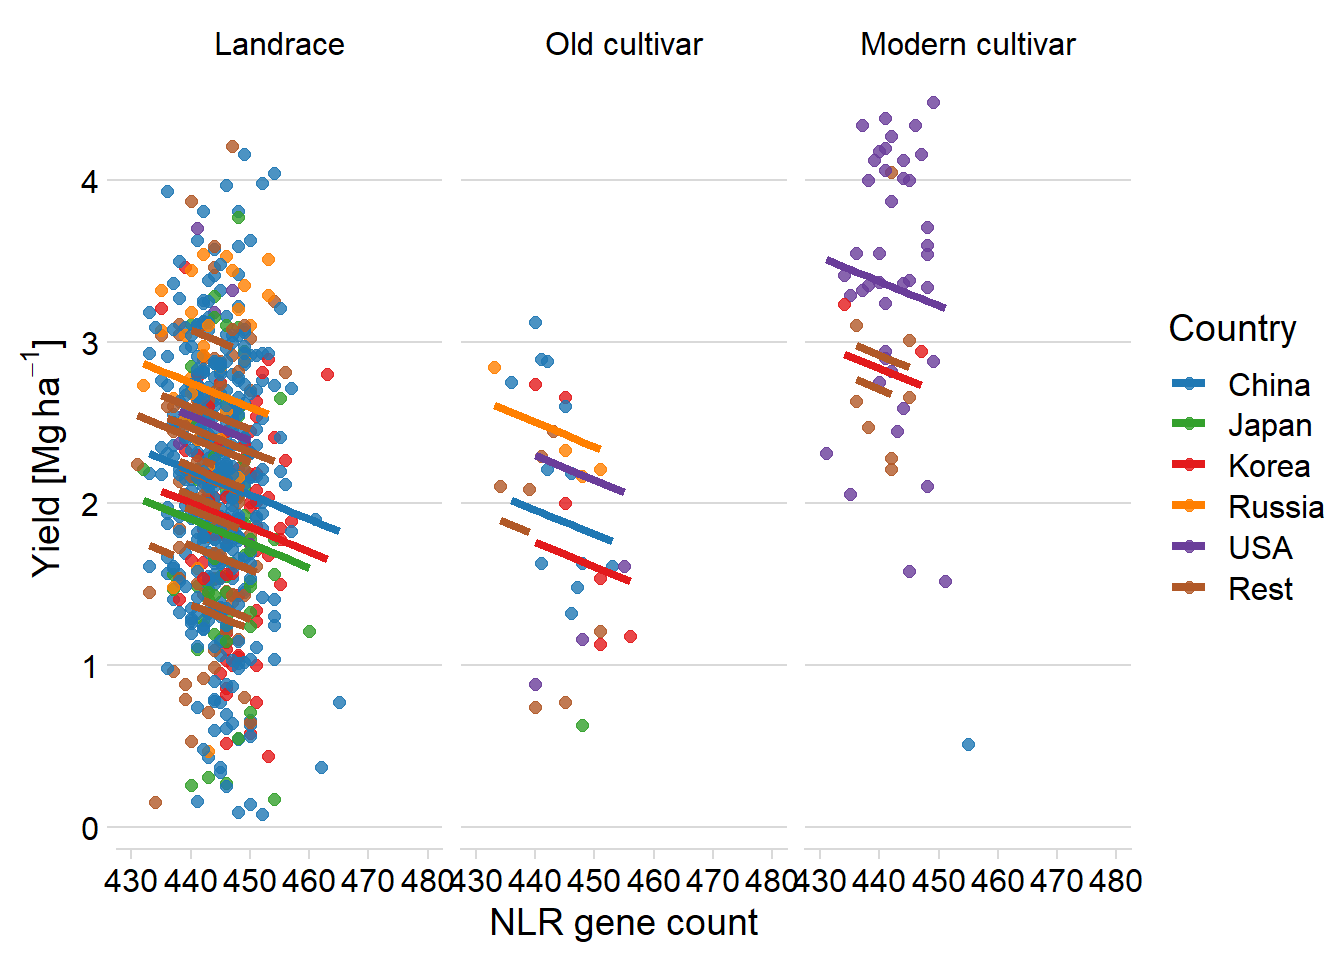
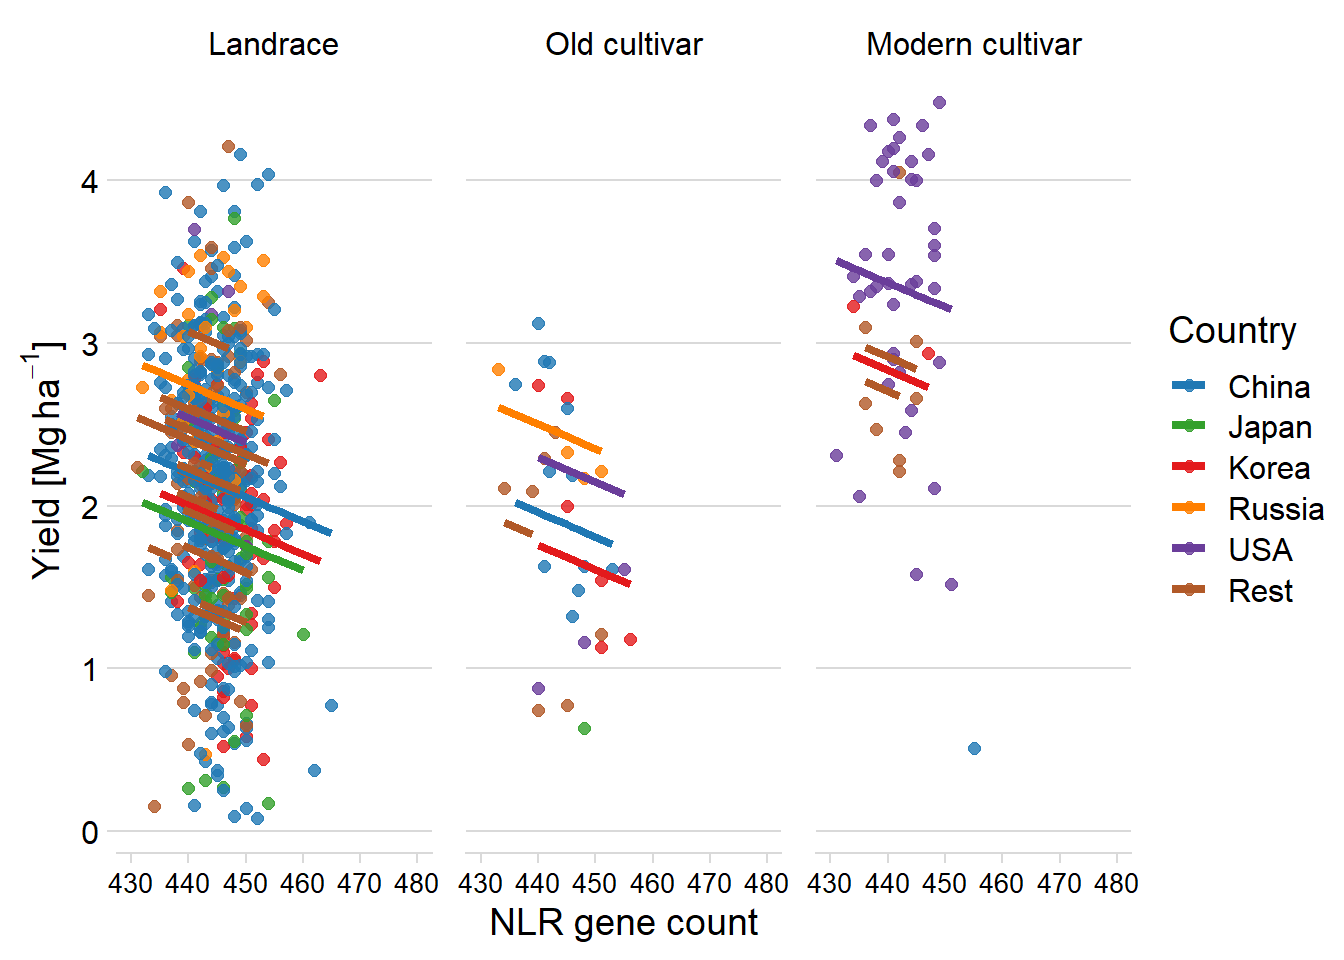
Build site.

diff --git a/docs/yield_link.html b/docs/yield_link.html
@@ -504,16 +504,16 @@ This reproducible <a href="http://rmarkdown.rstudio.com">R Markdown</a> analysis
 <div class="panel panel-default">
 <div class="panel-heading">
 <p class="panel-title">
-<a data-toggle="collapse" data-parent="#workflowr-checks" href="#strongRepositoryversionstrongahrefhttpsgithubcomphilippbayerRgeneanalysistreeb1c18390dd974d9d45edade5115d392cdf9a84dbtargetblankb1c1839a"> <span class="glyphicon glyphicon-ok text-success" aria-hidden="true"></span> <strong>Repository version:</strong> <a href="https://github.com/philippbayer/R_gene_analysis/tree/b1c18390dd974d9d45edade5115d392cdf9a84db" target="_blank">b1c1839</a> </a>
+<a data-toggle="collapse" data-parent="#workflowr-checks" href="#strongRepositoryversionstrongahrefhttpsgithubcomphilippbayerRgeneanalysistreee8e89b11f45804f3838927150a0f85c28cdf1f77targetblanke8e89b1a"> <span class="glyphicon glyphicon-ok text-success" aria-hidden="true"></span> <strong>Repository version:</strong> <a href="https://github.com/philippbayer/R_gene_analysis/tree/e8e89b11f45804f3838927150a0f85c28cdf1f77" target="_blank">e8e89b1</a> </a>
 </p>
 </div>
[2 lines of base64/hex data omitted]
 <div class="panel-body">
 <p>
 Great! You are using Git for version control. Tracking code development and connecting the code version to the results is critical for reproducibility.
 </p>
 <p>
-The results in this page were generated with repository version <a href="https://github.com/philippbayer/R_gene_analysis/tree/b1c18390dd974d9d45edade5115d392cdf9a84db" target="_blank">b1c1839</a>. See the <em>Past versions</em> tab to see a history of the changes made to the R Markdown and HTML files.
+The results in this page were generated with repository version <a href="https://github.com/philippbayer/R_gene_analysis/tree/e8e89b11f45804f3838927150a0f85c28cdf1f77" target="_blank">e8e89b1</a>. See the <em>Past versions</em> tab to see a history of the changes made to the R Markdown and HTML files.
 </p>
 <p>
 Note that you need to be careful to ensure that all relevant files for the analysis have been committed to Git prior to generating the results (you can use <code>wflow_publish</code> or <code>wflow_git_commit</code>). workflowr only checks the R Markdown file, but you know if there are other scripts or data files that it depends on. Below is the status of the Git repository when the results were generated:
@@ -601,6 +601,40 @@ Message
 </tr>
 </thead>
 <tbody>
+<tr>
+<td>
+Rmd
+</td>
+<td>
+<a href="https://github.com/philippbayer/R_gene_analysis/blob/e8e89b11f45804f3838927150a0f85c28cdf1f77/analysis/yield_link.Rmd" target="_blank">e8e89b1</a>
+</td>
+<td>
+Philipp Bayer
+</td>
+<td>
+2020-12-16
+</td>
+<td>
+wflow_publish(“analysis/yield_link.Rmd”)
+</td>
+</tr>
+<tr>
+<td>
+html
+</td>
+<td>
+<a href="https://rawcdn.githack.com/philippbayer/R_gene_analysis/0ccd24d95847fe15cafa4bb518586c7a2b4b63ab/docs/yield_link.html" target="_blank">0ccd24d</a>
+</td>
+<td>
+Philipp Bayer
+</td>
+<td>
+2020-12-16
+</td>
+<td>
+Build site.
+</td>
+</tr>
 <tr>
 <td>
 Rmd
@@ -2977,7 +3011,9 @@ mycol &lt;- brewer.pal(n = 12, name = &quot;Paired&quot;)[seq(2, 12, 2)]</code><
       ylab(expression(paste(&#39;Yield [Mg &#39;, ha^-1, &#39;]&#39;))) +
       scale_color_manual(values=mycol) +
       xlim(c(430, 480)) +
-  labs(color = &quot;Country&quot;)</code></pre>
+  labs(color = &quot;Country&quot;) +
+  theme(panel.spacing = unit(0.9, &quot;lines&quot;),
+        axis.text.x = element_text(size=10))</code></pre>
 <p><img src="figure/yield_link.Rmd/unnamed-chunk-83-1.png" width="672" style="display: block; margin: auto;" /></p>
 <p>OK that’s much better, nice and strong colors.</p>
 <pre class="r"><code>plot(mixed.lmer)</code></pre>
@@ -3739,23 +3775,34 @@ newdat %&gt;% mutate(Country2 = case_when ( Country == &#39;USA&#39; ~ &#39;USA&
       xlim(c(47.900, 49.700))</code></pre>
 <p><img src="figure/yield_link.Rmd/unnamed-chunk-97-1.png" width="672" style="display: block; margin: auto;" /></p>
 <p>With better color scheme:</p>
-<pre class="r"><code>newdat %&gt;% mutate(Country2 = case_when ( Country == &#39;USA&#39; ~ &#39;USA&#39;,
-                                              Country == &#39;China&#39; ~ &#39;China&#39;,
-                                              Country == &#39;Korea&#39; ~ &#39;Korea&#39;,
-                                              Country == &#39;Japan&#39; ~ &#39;Japan&#39;,
-                                              Country == &#39;Russia&#39; ~ &#39;Russia&#39;,
-                                              TRUE ~ &#39;Rest&#39;)) %&gt;% 
-  mutate(Country2 = factor(Country2, levels=c(&#39;China&#39;, &#39;Japan&#39;, &#39;Korea&#39;, &#39;Russia&#39;, &#39;USA&#39;, &#39;Rest&#39;))) %&gt;% 
-  ggplot(aes(x = presences.x/1000, y = pred, color = Country2)) +
-      facet_wrap(~Group, nrow=1) +   # a panel for each mountain range
-      geom_point(aes(y = Yield, color=Country2),alpha = 0.8, size=2) +
-      geom_line(aes(y=pred, group=Country, color=Country2), size = 1.5) +
-      theme_minimal_hgrid() +
-      xlab(&#39;NLR gene count&#39;) +
-      ylab(expression(paste(&#39;Yield [Mg &#39;, ha^-1, &#39;]&#39;))) +
-      scale_color_manual(values=mycol) +
-      xlim(c(47.900, 49.700)) +
-  labs(color = &quot;Country&quot;)</code></pre>
+<pre class="r"><code>newdat %&gt;% mutate(
+  Country2 = case_when (
+  Country == &#39;USA&#39; ~ &#39;USA&#39;,
+  Country == &#39;China&#39; ~ &#39;China&#39;,
+  Country == &#39;Korea&#39; ~ &#39;Korea&#39;,
+  Country == &#39;Japan&#39; ~ &#39;Japan&#39;,
+  Country == &#39;Russia&#39; ~ &#39;Russia&#39;,
+  TRUE ~ &#39;Rest&#39;
+  )
+  ) %&gt;%
+  mutate(Country2 = factor(
+  Country2,
+  levels = c(&#39;China&#39;, &#39;Japan&#39;, &#39;Korea&#39;, &#39;Russia&#39;, &#39;USA&#39;, &#39;Rest&#39;)
+  )) %&gt;%
+  ggplot(aes(x = presences.x / 1000, y = pred, color = Country2)) +
+  facet_wrap( ~ Group, nrow = 1) +   # a panel for each mountain range
+  geom_point(aes(y = Yield, color = Country2),
+  alpha = 0.8,
+  size = 2) +
+  geom_line(aes(y = pred, group = Country, color = Country2), size = 1.5) +
+  theme_minimal_hgrid() +
+  xlab(&#39;NLR gene count&#39;) +
+  ylab(expression(paste(&#39;Yield [Mg &#39;, ha ^ -1, &#39;]&#39;))) +
+  scale_color_manual(values = mycol) +
+  xlim(c(47.900, 49.700)) +
+  labs(color = &quot;Country&quot;) +
+  theme(panel.spacing = unit(0.9, &quot;lines&quot;),
+  axis.text.x = element_text(size = 10))</code></pre>
 <p><img src="figure/yield_link.Rmd/unnamed-chunk-98-1.png" width="672" style="display: block; margin: auto;" /></p>
 <br>
 <p>
